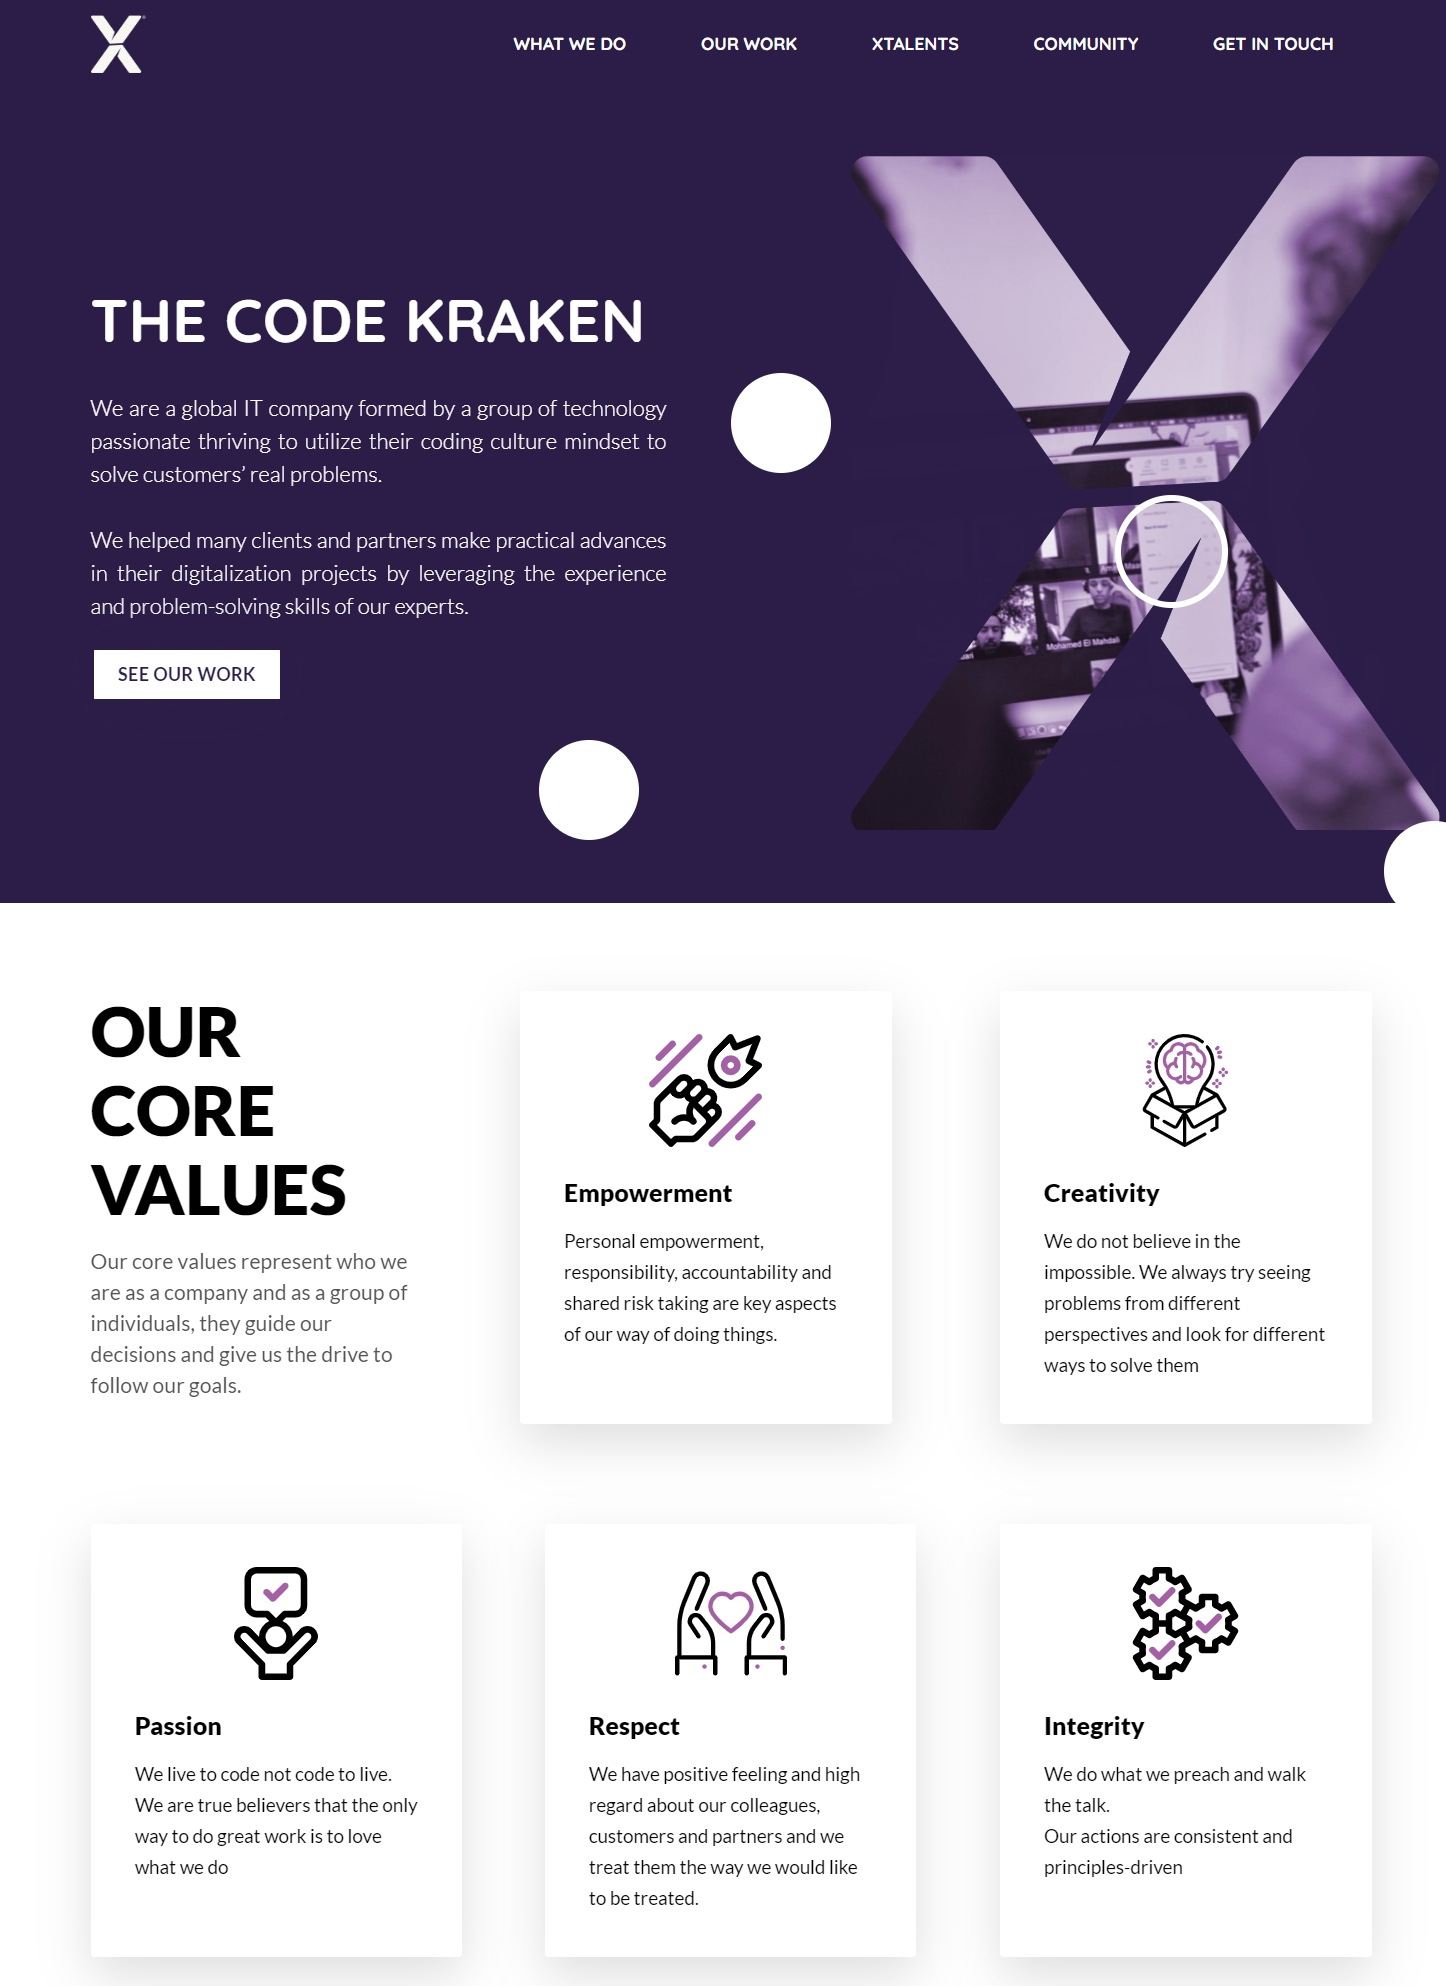
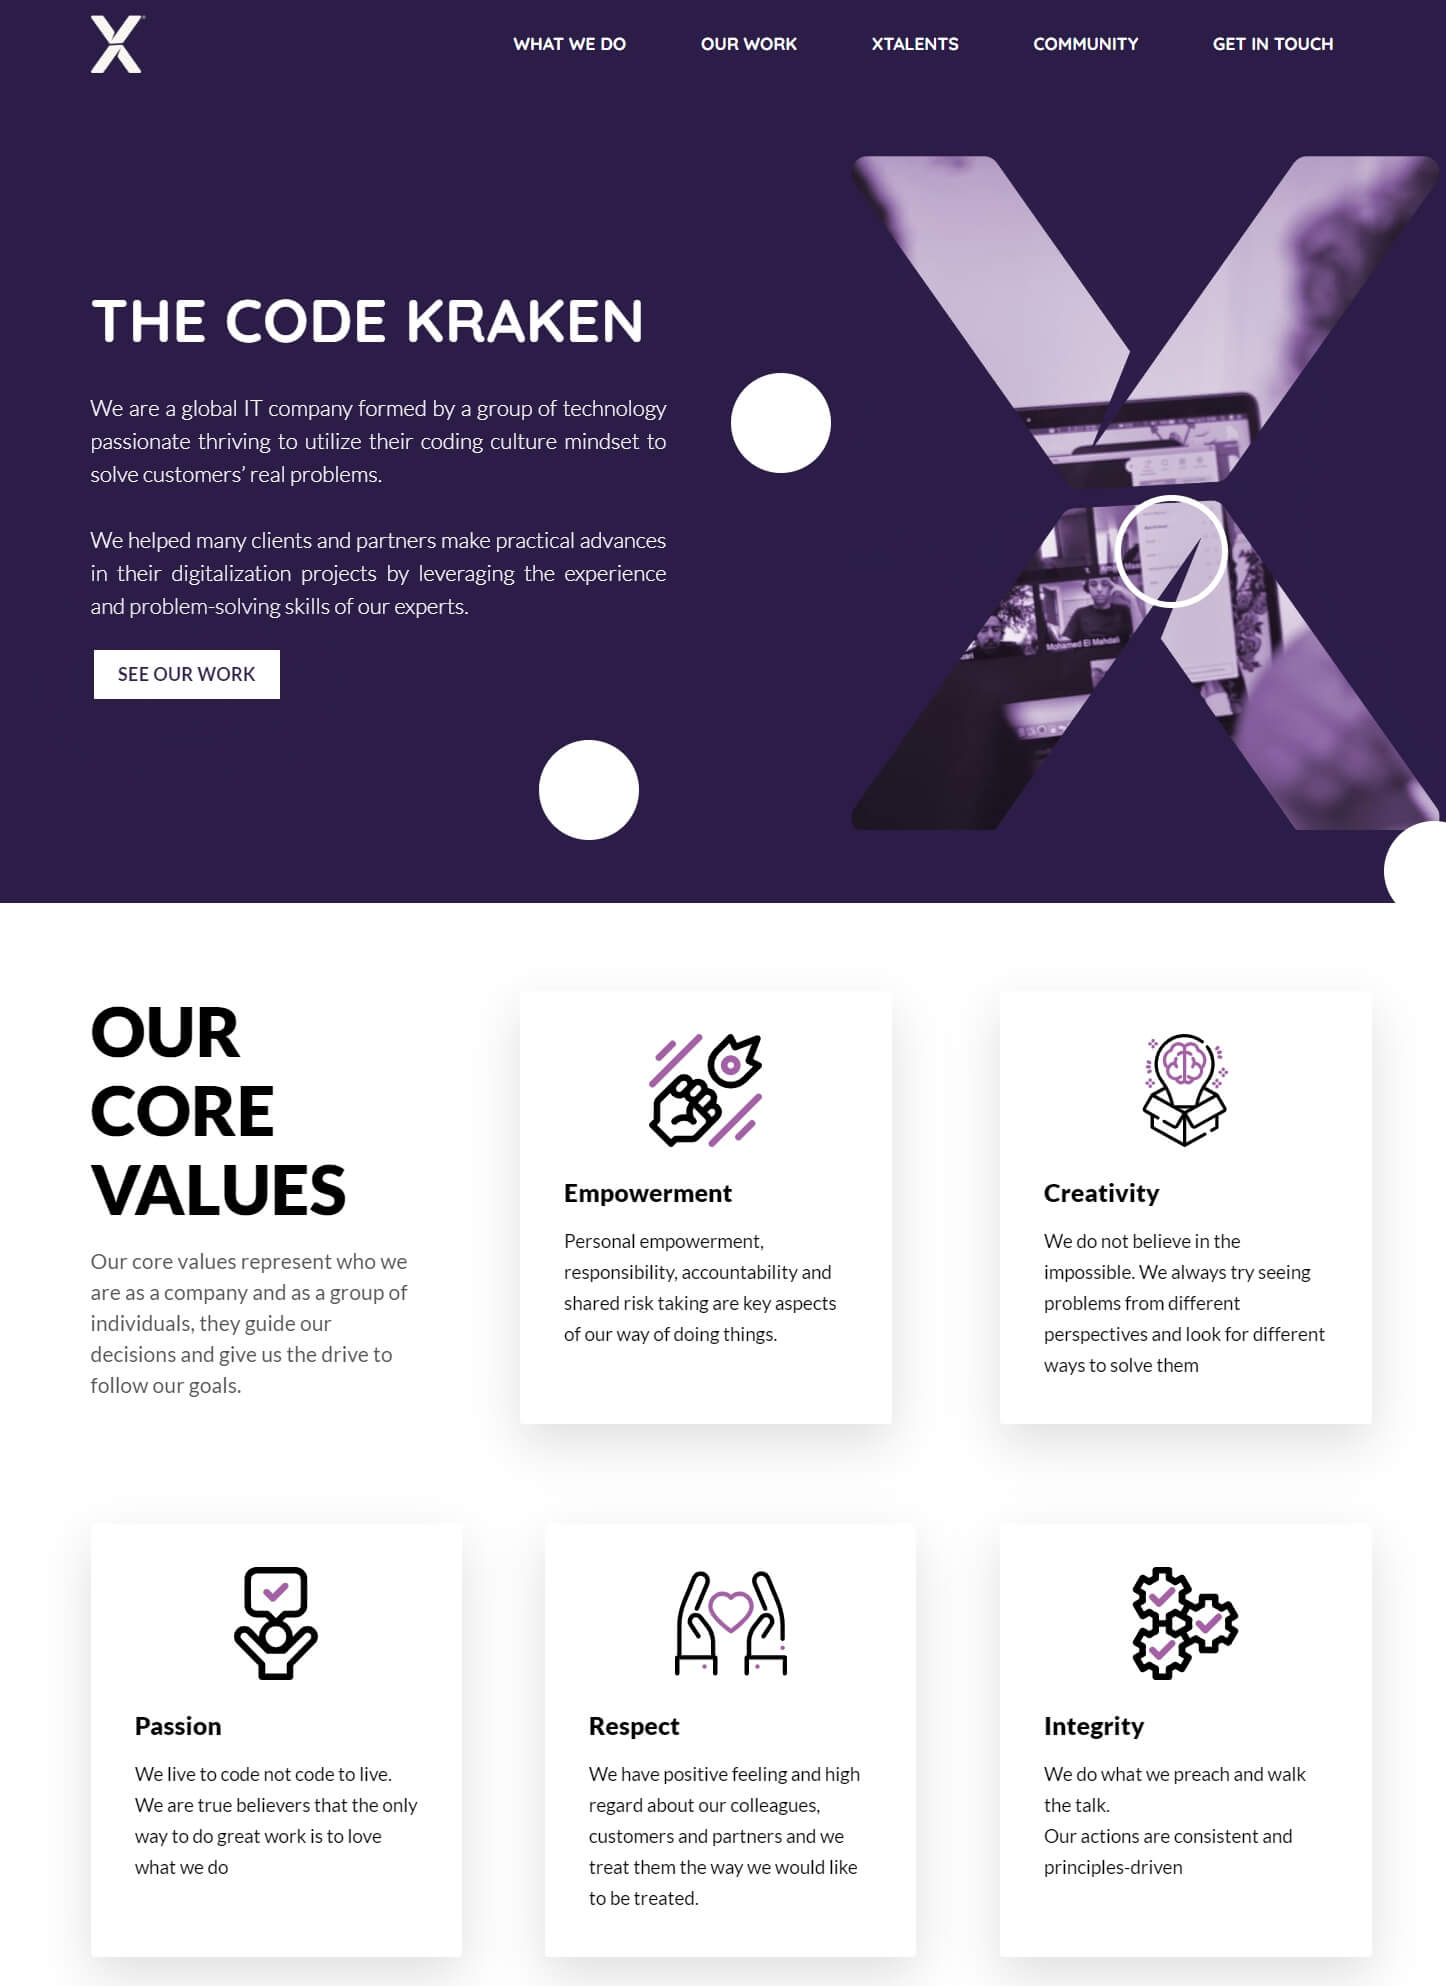
optimize images

Changed region(s): [[0.8091, 0.5307, 0.8402, 0.5619], [0.4668, 0.5307, 0.4979, 0.5619]]

diff --git a/src/components/about/Info.js b/src/components/about/Info.js
@@ -7,17 +7,18 @@ const Info = () => (
     <AboutLabel>About</AboutLabel>
     <Name>Hi! I'm Mohamed Mouhsni</Name>
     <Description>
-      A self-taught WEB Developer and a CSS Designer, based in Agadir, Morocco.
+      A self-taught WEB Developer, based in Casablanca, Morocco.
       <br />
       <br />
       Outside of work I like to work on full stack web applications with a
-      combination of React, Gatsby, NodeJS and backend services like Firebase
-      and Netlify. This allows me play around with new technology and gives me a
-      better understanding of the digital industry as a whole.
+      combination of React(React Native), Gatsby, NodeJS, Laravel and backend
+      services like Firebase and Netlify. This allows me play around with new
+      technology and gives me a better understanding of the digital industry as
+      a whole.
       <br />
       <br />
-      Ready to start working on your JAVASCRIPT and CSS jobs, If that sounds
-      like someone you’d like to collaborate with.
+      Ready to start working on your Web or Mobile projects, If that sounds like
+      someone you’d like to collaborate with.
     </Description>
     <SocialMedia color="primary" justifyContent="flex-start" />
     <ContactMe>Contact me here!</ContactMe>

diff --git a/src/components/about/Experience.js b/src/components/about/Experience.js
@@ -16,7 +16,7 @@ const Experience = () => {
         <ExperienceLine>
           <Desc>
             <h4>
-              MERN Stack developer{" "}
+              Full Stack developer{" "}
               <span>
                 <code> - </code>Self-employed
               </span>
@@ -29,6 +29,25 @@ const Experience = () => {
           <Year>
             <p>2018 - Present</p>
           </Year>
+          <Child>
+            <ExperienceLine>
+              <Desc>
+                <h4>
+                  Tech Lead
+                  <span>
+                    <code> - </code>EURAFRIC Information
+                  </span>
+                </h4>
+                <Location>
+                  Develop a highly interactive Mobile and Web application for
+                  BMCE Euroservices | BANK OF AFRIC using React Native framwork
+                </Location>
+              </Desc>
+              <Year>
+                <p>Aug 2020 - Present</p>
+              </Year>
+            </ExperienceLine>
+          </Child>
           <Child>
             <ExperienceLine>
               <Desc>
